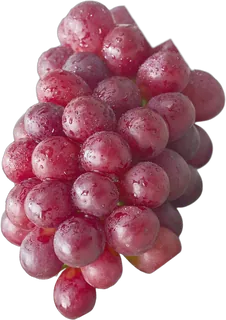
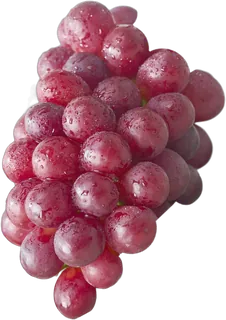
Add files via upload

diff --git a/index.html b/index.html
@@ -85,6 +85,7 @@ footer{margin-top:28px}
 .toast{position:fixed;left:50%;bottom:96px;transform:translateX(-50%);background:var(--ink);color:#fff;font-size:14px;padding:11px 18px;border-radius:99px;opacity:0;pointer-events:none;transition:opacity .2s;white-space:nowrap}
 .toast.on{opacity:1}
 [hidden]{display:none!important}
+.back{display:block;margin:18px auto 0;height:48px;padding:0 26px;border-radius:99px;border:1.5px solid var(--line);background:#fff;color:var(--ink);font-size:16px;cursor:pointer}
 .spin{width:22px;height:22px;border:3px solid rgba(255,255,255,.45);border-top-color:#fff;border-radius:50%;animation:sp 0.8s linear infinite}
 @keyframes sp{to{transform:rotate(360deg)}}
 /* 현황판 (?view=result) */
@@ -149,6 +150,7 @@ body.board .bars{gap:18px;margin-top:20px}
       <div class="ev d"><span class="pill">EVENT 1</span>포도인간을 찾아라!<span class="t">1시간에 1번씩 운영</span></div>
       <div class="ev g d"><span class="pill">EVENT 2</span>포도알 플링코<span class="t">상시 운영</span></div>
     </div>
+    <button class="back d" id="back" type="button">← 처음 화면으로</button>
   </main>
 </div>
 <footer>
@@ -254,7 +256,7 @@ $('go').onclick = function(){
 function board(){
   document.body.classList.add('board');
   $('voteView').hidden = true; $('doneView').hidden = false;
-  $('snsCard').hidden = true; $('evCard').hidden = true; $('pick').parentNode.hidden = true;
+  $('snsCard').hidden = true; $('evCard').hidden = true; $('pick').parentNode.hidden = true; $('back').hidden = true;
   $('ttl').innerHTML = '품종별 선호도 <span class="y">실시간 현황</span>';
   $('lead').textContent = '휴대폰으로 QR을 찍고 가장 맛있었던 포도에 투표해 주세요!';
   function tick(){ API.call('getCounts').then(function(r){ bars(r, null); }).catch(function(){}); }
@@ -262,6 +264,7 @@ function board(){
 }
 
 render();
+$('back').onclick = function(){ try{ localStorage.removeItem(KEY); }catch(e){} location.href = location.pathname.replace(/\/result\/?$/, '/'); };
 function start(q){
   if(q && q.view === 'result') return board();
   var mine = ls(KEY);
